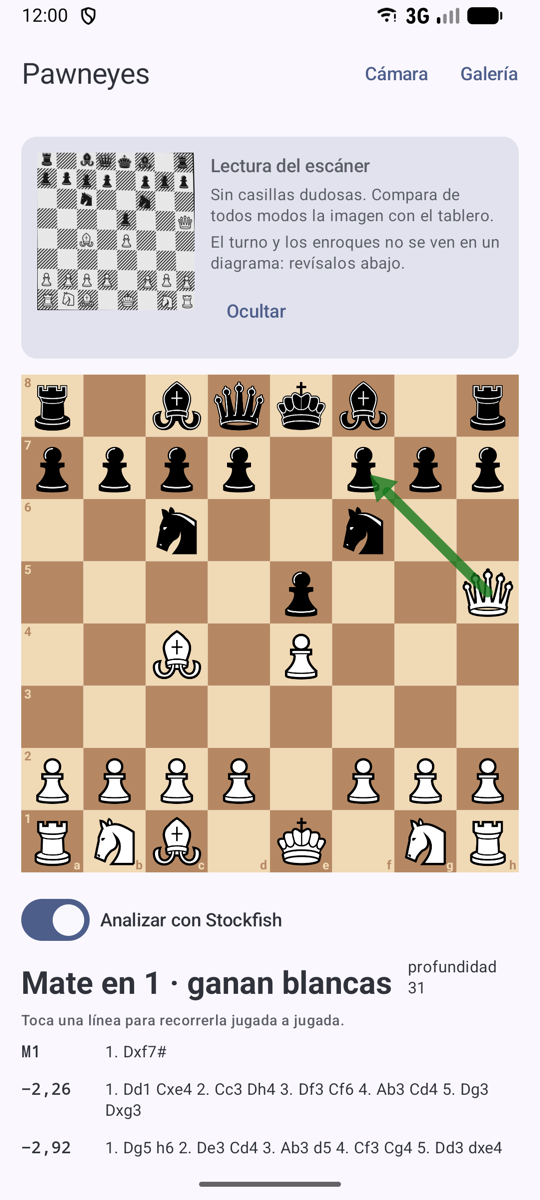
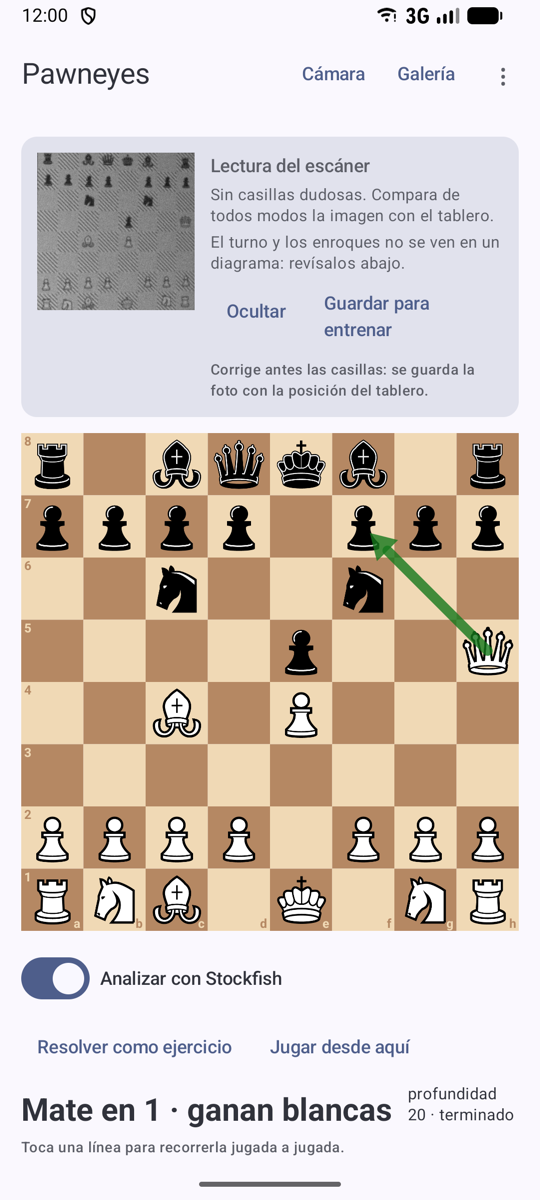
README: capturas actualizadas con ejercicio y partidas
Se rehacen las tres capturas (escaneo con «Guardar para entrenar», explorador
y editor con «Compartir») y se añaden el modo ejercicio, la elección de rival
y una partida contra Maia.

diff --git a/README.md b/README.md
@@ -29,6 +29,13 @@
   &nbsp;
   <img src="docs/screenshots/03-editor.png" alt="Editor de posiciones" width="260">
 </p>
+<p align="center">
+  <img src="docs/screenshots/04-ejercicio.png" alt="Modo ejercicio: jugada correcta" width="260">
+  &nbsp;
+  <img src="docs/screenshots/05-jugar-eleccion.png" alt="Elegir bando y rival para jugar" width="260">
+  &nbsp;
+  <img src="docs/screenshots/06-partida.png" alt="Partida contra Maia" width="260">
+</p>
 
 ## Qué hace
 
